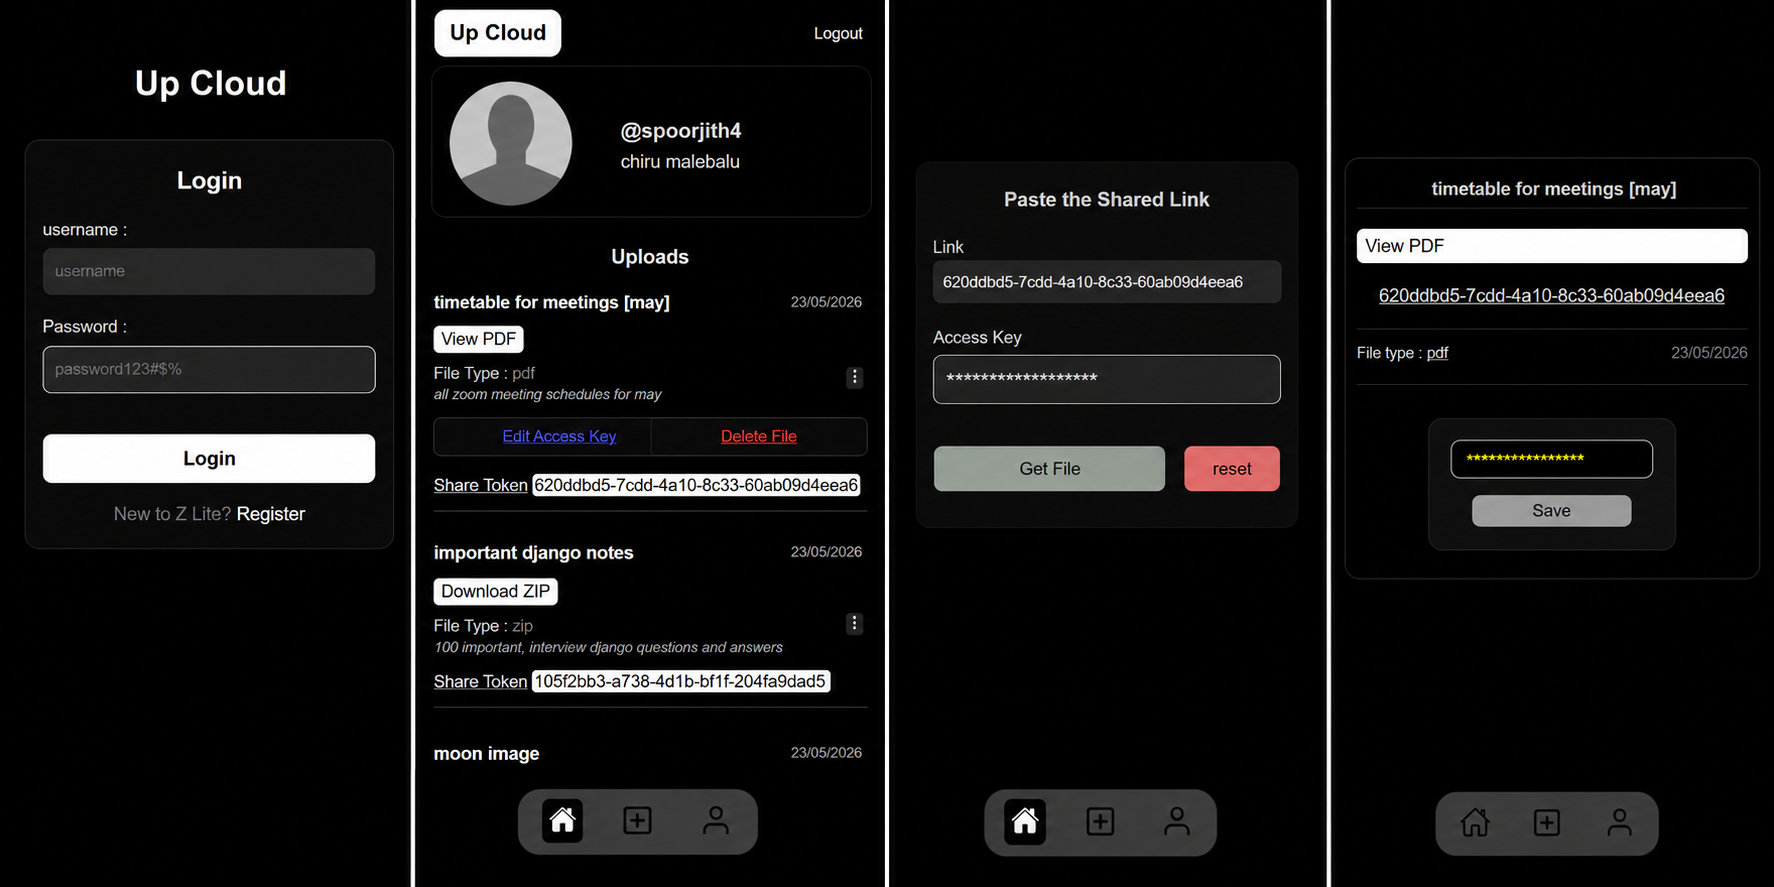
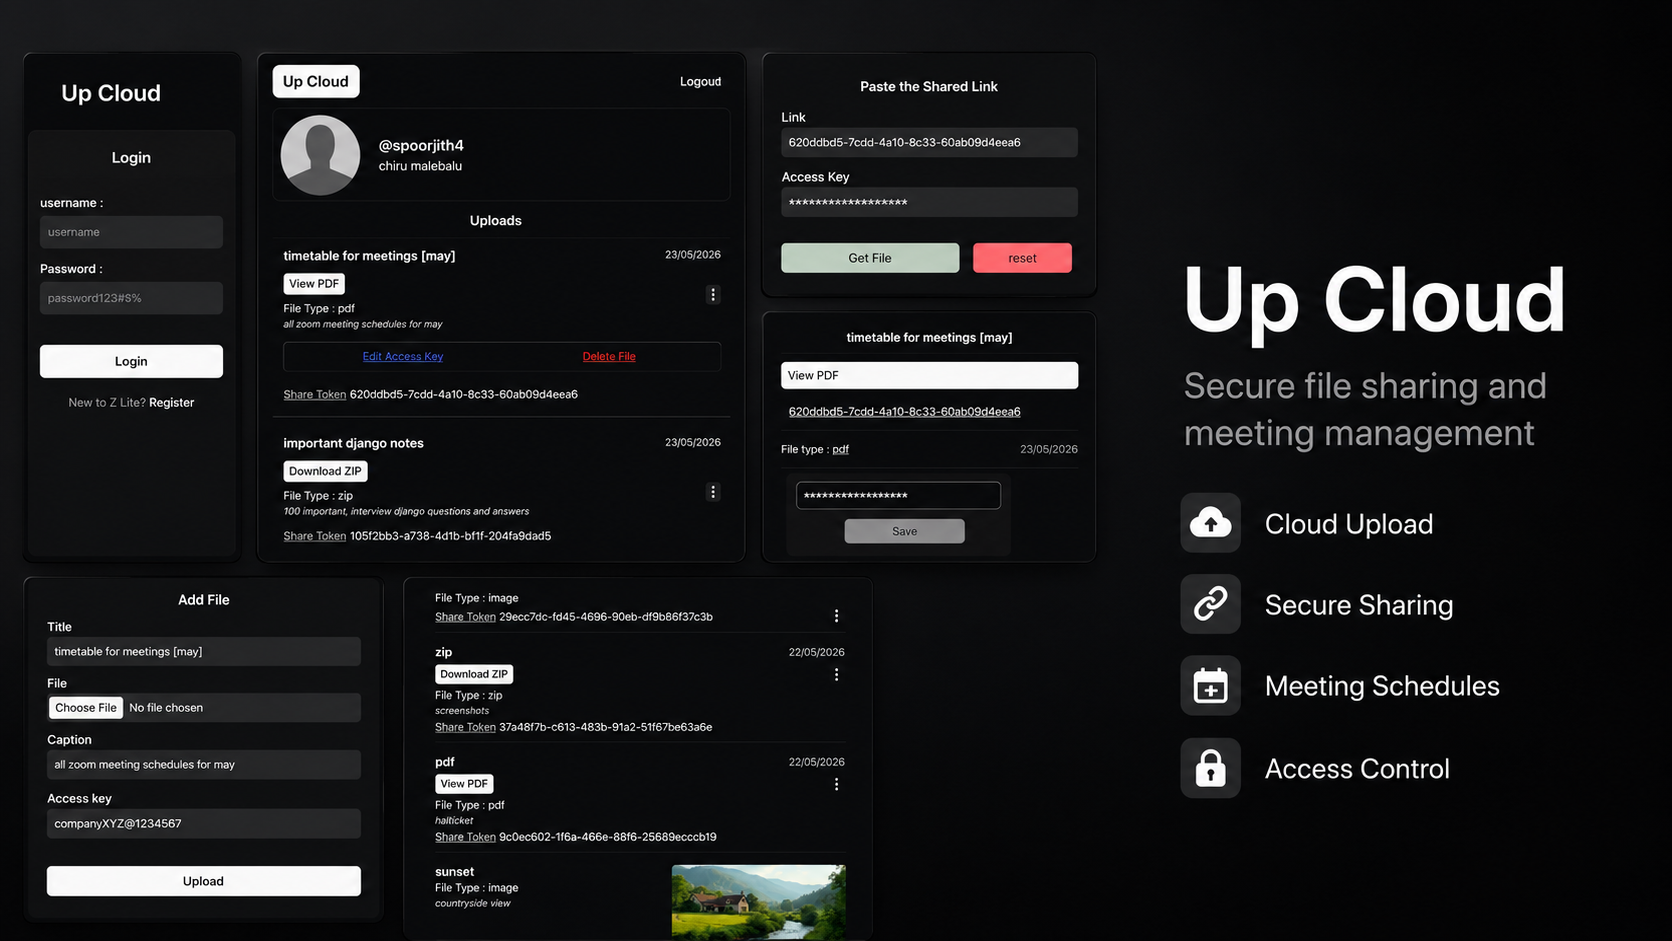
css

diff --git a/frontend-react/src/data/projects.js b/frontend-react/src/data/projects.js
@@ -5,7 +5,7 @@ const projects = [
     description: "Full-stack e-commerce application with JWT authentication, cart management, and order processing",
     
     details:
-      "A scalable backend system built using Django and DRF. It supports user authentication, product management, cart system, and order processing. Designed with proper database relations and secure API endpoints.",
+      "A scalable backend system built using Django and DRF. It supports user authentication, product management, cart system, and order processing. Designed with proper database relations and secure API endpoints. used gunicorn, docker and Deployed to live server (linode)",
 
     features: [
       "JWT Authentication",
@@ -86,7 +86,7 @@ const projects = [
     tech: ["Django", "DRF", "React", "Postgresql"],
 
     image:
-      "/zlite/zlite000.png",
+      "/zlite/zlite0.png",
 
     images: [
       "/zlite/zlite1.png",
@@ -120,7 +120,7 @@ const projects = [
     tech: ["Django-DRF", "Django channels", "search filters", "React.js"],
 
     image:
-      "/chatapp/chatapp000.png",
+      "/chatapp/chatapp0.png",
 
     images: [
       "/chatapp/chatapp1.png",
@@ -155,7 +155,7 @@ const projects = [
     tech: ["Numpy", "Pandas", "Matplotlib", "Django", "ML", "React"],
 
     image:
-      "/stockprediction/stockpred2.png",
+      "/stockprediction/stockpred0.png",
 
     images: [
       "/stockprediction/stockpred1.png",

diff --git a/frontend-react/src/styles/global.css b/frontend-react/src/styles/global.css
@@ -1,6 +1,6 @@
 :root {
   --bg: #050505;
-  --bg-secondary: #1a1a1a;
+  --bg-secondary: #1c1c1c;
   --bg-card: #0e0e0e;
 
   --text-primary: #F5F5F5;
@@ -222,6 +222,12 @@ html, body {
   background-color: var(--bg-secondary);
   color: var(--text-primary);
 }
+@media (max-width: 768px) {
+  .projects-section {
+    background-color: #292929;
+  }
+}
+
 
 /* Card */
 .project-card {
@@ -251,6 +257,11 @@ html, body {
   transform: scale(1.02);
   transition: 300ms;
   box-shadow: 0 4px 8px black;
+}
+@media (max-width: 768px) {
+  .project-card:hover {
+    box-shadow: 0 0 4px black;
+  }
 }
 
 /* Tech tags */
